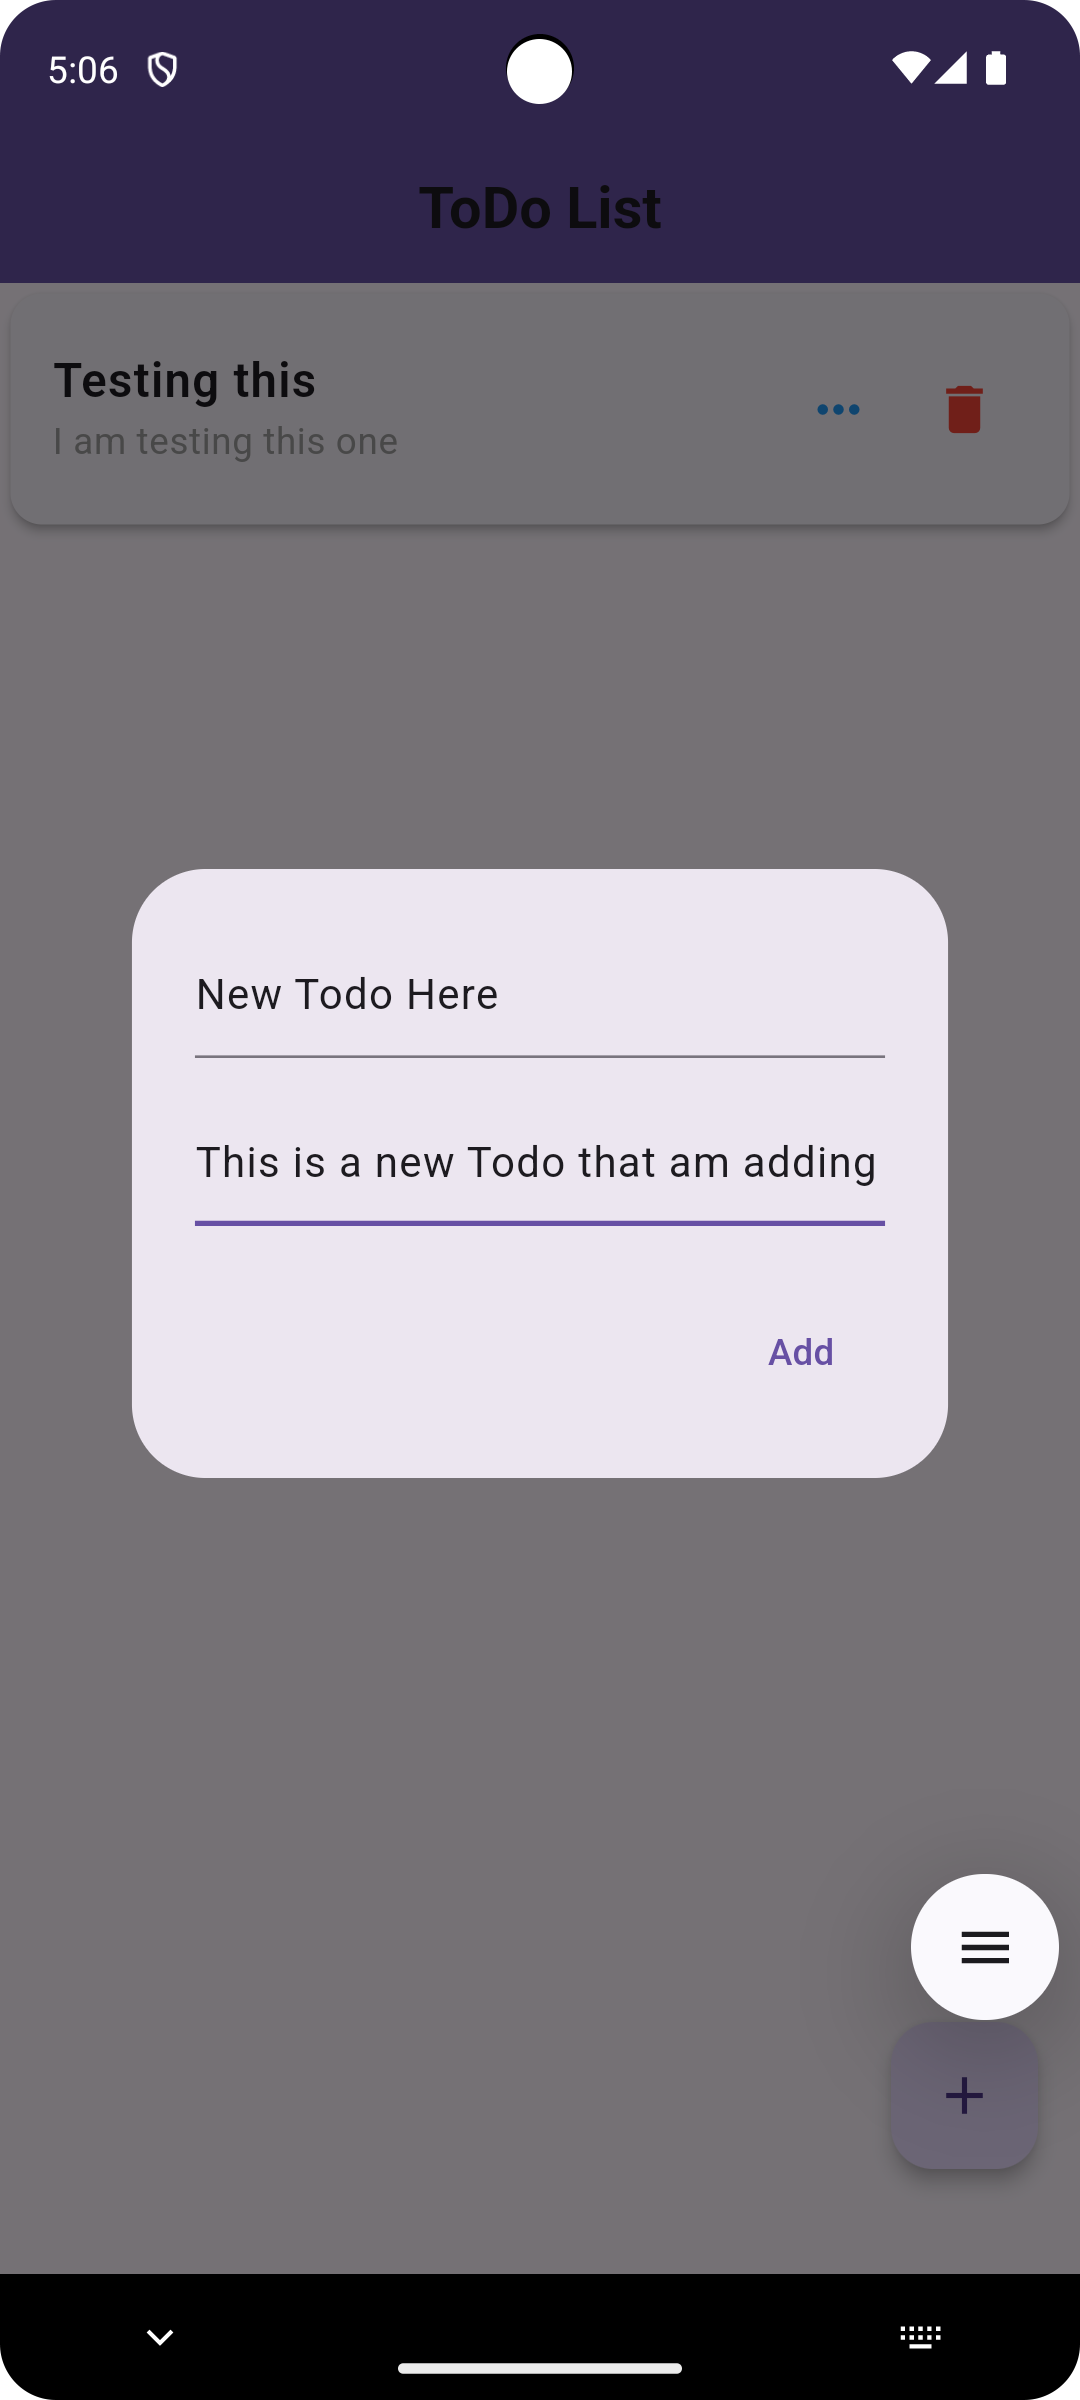
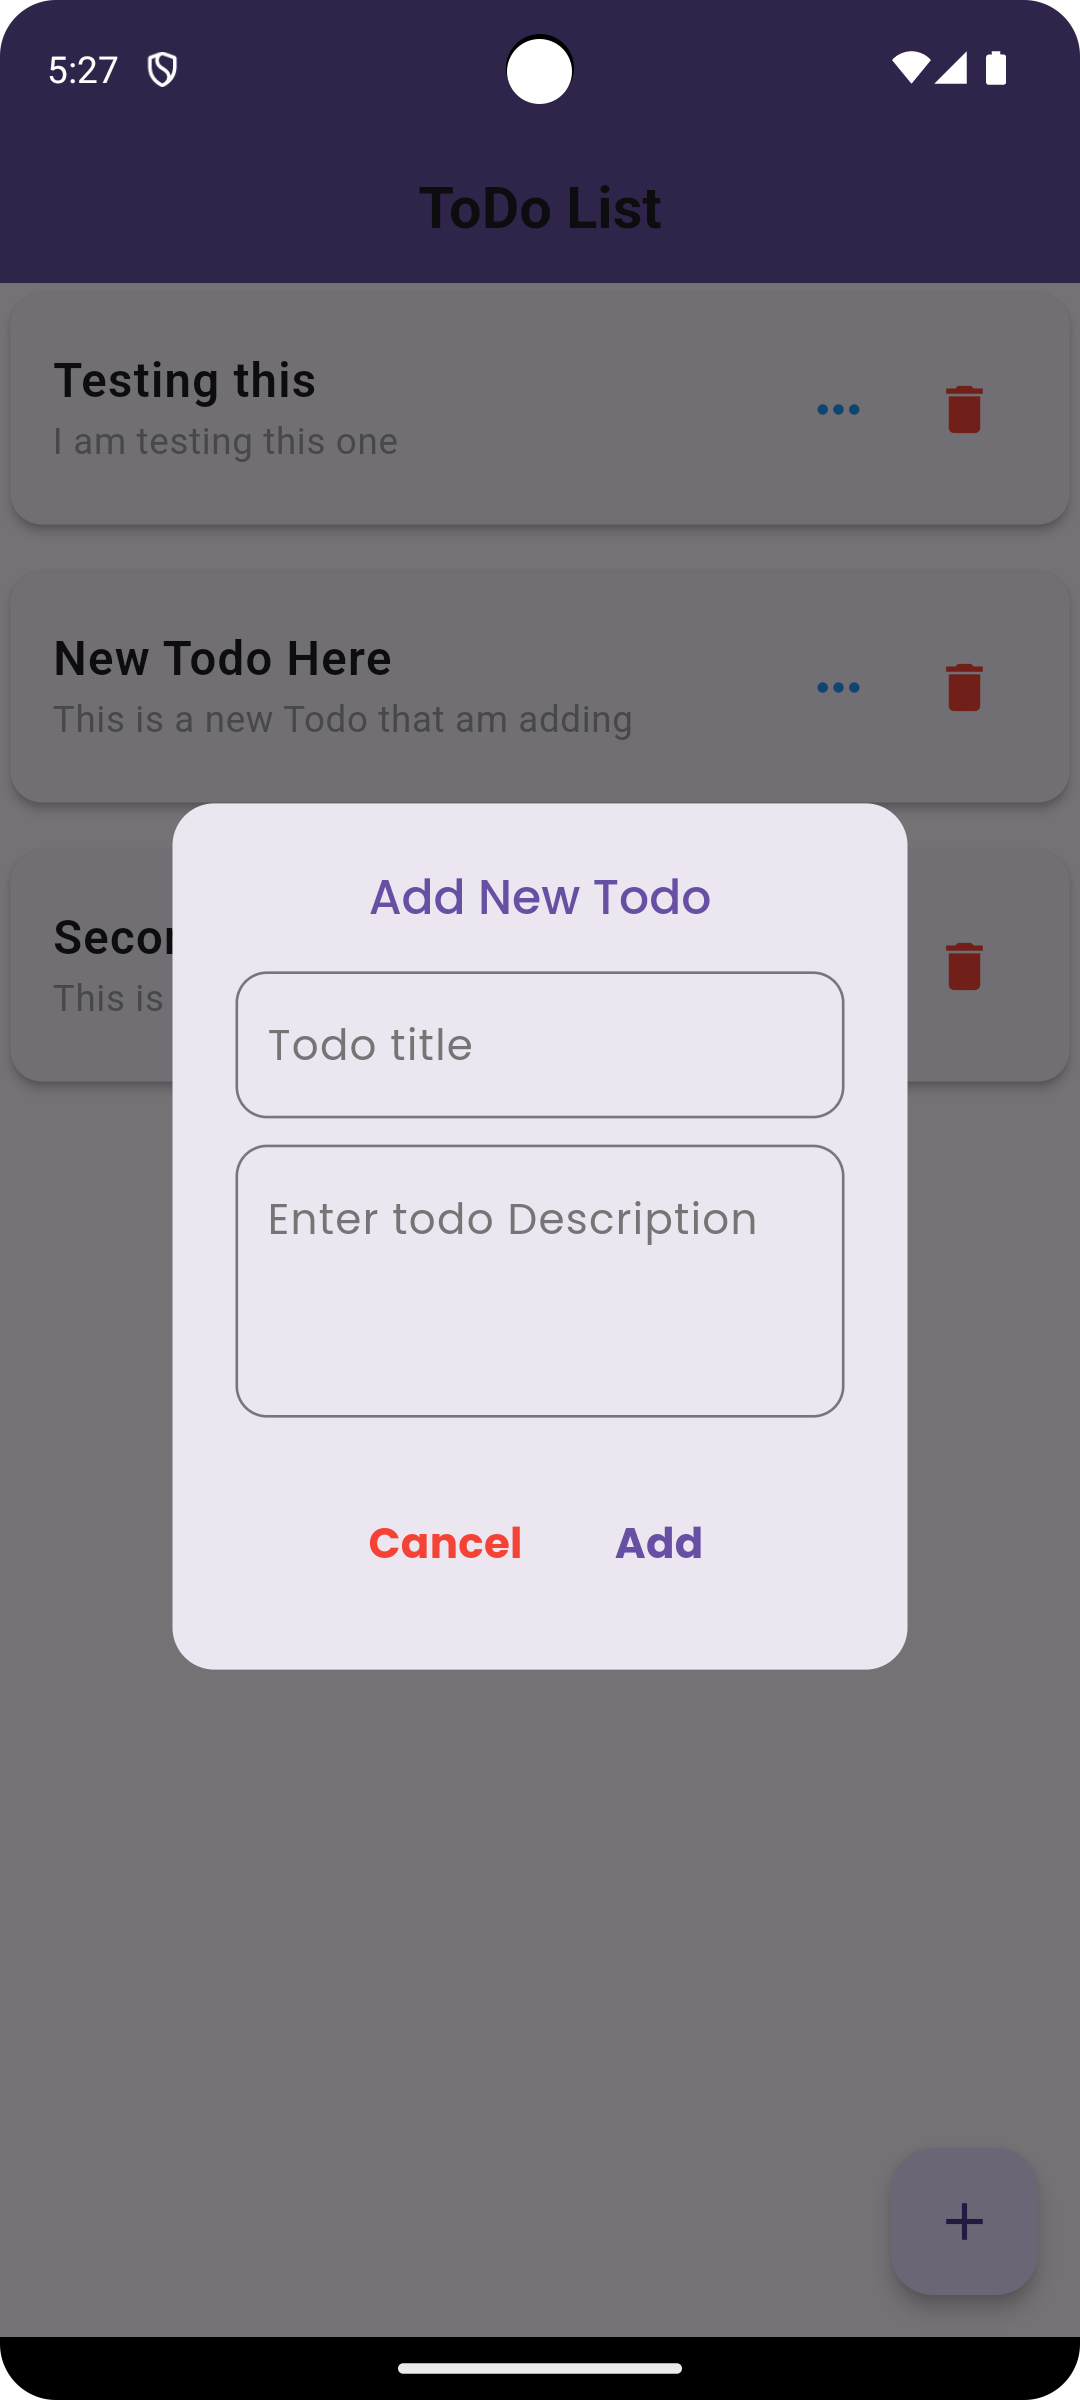
Edit Todo

diff --git a/lib/pages/home_page.dart b/lib/pages/home_page.dart
@@ -1,8 +1,10 @@
 import 'package:flutter/material.dart';
 import 'package:hive_flutter/adapters.dart';
+import 'package:provider/provider.dart';
 import 'package:todo/models/todo_model.dart';
 
 import '../routes/route_name.dart';
+import '../view_model/todos_provider.dart';
 import '../widgets/add_todo_dialog.dart';
 
 class HomePage extends StatefulWidget {
@@ -23,6 +25,7 @@ class _HomePageState extends State<HomePage> {
 
   @override
   Widget build(BuildContext context) {
+    final todoProvider = Provider.of<TodosProvider>(context);
     return Scaffold(
       appBar: AppBar(
         backgroundColor: Theme.of(context).colorScheme.primary,
@@ -33,7 +36,7 @@ class _HomePageState extends State<HomePage> {
         centerTitle: true,
       ),
       body: ValueListenableBuilder(
-        valueListenable: todoBox.listenable(),
+        valueListenable: todoProvider.todosListenable,
         builder: (context, Box<dynamic> box, _) {
           if (box.isEmpty) {
             return const Center(child: Text('No Todos Yet. Please add a Todo'));

diff --git a/lib/view_model/todos_provider.dart b/lib/view_model/todos_provider.dart
@@ -1,14 +1,11 @@
-import 'package:flutter/material.dart';
-import 'package:hive/hive.dart';
-import 'package:todo/data_source/todo_data.dart';
+import 'package:flutter/foundation.dart';
+import 'package:hive_flutter/adapters.dart';
 import 'package:todo/models/todo_model.dart';
 
 class TodosProvider extends ChangeNotifier {
   Box<TodoModel> todoBox = Hive.box('todoBox');
 
-  Future<List<TodoModel>> fetchTodos() async {
-    return TodoData.todos();
-  }
+  ValueListenable<Box<TodoModel>> get todosListenable => todoBox.listenable();
 
   void addToDo(TodoModel todoModel) {
     todoBox.add(todoModel);

diff --git a/lib/models/todo_model.dart b/lib/models/todo_model.dart
@@ -25,21 +25,4 @@ class TodoModel extends HiveObject {
       _$TodoModelFromJson(json);
 
   Map<String, dynamic> toJson() => _$TodoModelToJson(this);
-
-  factory TodoModel.fromMap(Map<dynamic, dynamic> map) {
-    return TodoModel(
-      title: map['title'] ?? 'No Title',
-      description: map['description'],
-      status: map['status'],
-    );
-  }
-
-  // Convert TodoModel to Map (if needed)
-  Map<String, dynamic> toMap() {
-    return {
-      'title': title,
-      'description': description,
-      'status': status,
-    };
-  }
 }

diff --git a/lib/widgets/add_todo_dialog.dart b/lib/widgets/add_todo_dialog.dart
@@ -51,7 +51,7 @@ class AddTodoDialog extends StatelessWidget {
             controller: _descController,
             maxLines: 3,
             decoration: InputDecoration(
-              hintText: 'Enter todo Description',
+              hintText: 'Todo Description',
               hintStyle: GoogleFonts.poppins(color: Colors.grey.shade600),
               border: OutlineInputBorder(
                 borderRadius: BorderRadius.circular(12),
